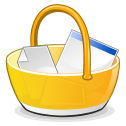
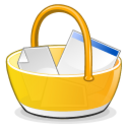
Add Mathom data migration and native profile support

diff --git a/src/main.cpp b/src/main.cpp
@@ -11,6 +11,11 @@
 #include <QCommandLineOption>
 #include <QCommandLineParser>
 #include <QDir>
+#include <QDirIterator>
+#include <QDateTime>
+#include <QFile>
+#include <QFileInfo>
+#include <QStandardPaths>
 #include <config.h>
 #include <kconfig.h> // TMP IN ALPHA 1
 
@@ -23,6 +28,44 @@
 #include "debugwindow.h"
 #endif
 #include "settings.h"
+
+static bool copyDirectoryRecursively(const QString &sourcePath, const QString &destinationPath)
+{
+    QDir sourceDir(sourcePath);
+    if (!sourceDir.exists()) {
+        return false;
+    }
+
+    if (!QDir().mkpath(destinationPath)) {
+        return false;
+    }
+
+    QDirIterator it(sourcePath,
+                    QDir::NoDotAndDotDot | QDir::AllEntries | QDir::Hidden | QDir::System,
+                    QDirIterator::Subdirectories);
+
+    while (it.hasNext()) {
+        const QString sourceItem = it.next();
+        const QFileInfo info = it.fileInfo();
+        const QString relativePath = sourceDir.relativeFilePath(sourceItem);
+        const QString destinationItem = QDir(destinationPath).filePath(relativePath);
+
+        if (info.isDir()) {
+            if (!QDir().mkpath(destinationItem)) {
+                return false;
+            }
+        } else if (info.isFile()) {
+            if (!QDir().mkpath(QFileInfo(destinationItem).path())) {
+                return false;
+            }
+            if (!QFile::copy(sourceItem, destinationItem)) {
+                return false;
+            }
+        }
+    }
+
+    return true;
+}
 
 int main(int argc, char *argv[])
 {
@@ -54,10 +97,84 @@ int main(int argc, char *argv[])
             Global::setCustomSavesFolder(customDataFolder);
         }
     }
+    // First-run migration from BasKet to Mathom.
+    // Keep the original BasKet profile untouched.
+    if (opts.value(QStringLiteral("data-folder")).isEmpty()) {
+        const QString genericData =
+            QStandardPaths::writableLocation(QStandardPaths::GenericDataLocation);
+        const QString configDir =
+            QStandardPaths::writableLocation(QStandardPaths::ConfigLocation);
+
+        const QString newData =
+            QDir(genericData).filePath(QStringLiteral("mathom"));
+        const QString newConfig =
+            QDir(configDir).filePath(QStringLiteral("mathomrc"));
+
+        struct LegacyProfile {
+            QString data;
+            QString config;
+            QDateTime modified;
+        };
+
+        QList<LegacyProfile> candidates;
+
+        // BasKet installed as Flatpak.
+        const QString flatpakRoot =
+            QDir::home().filePath(QStringLiteral(".var/app/org.kde.basket"));
+
+        const QString flatpakData =
+            QDir(flatpakRoot).filePath(QStringLiteral("data/basket"));
+        const QString flatpakConfig =
+            QDir(flatpakRoot).filePath(QStringLiteral("config/basketrc"));
+        const QString flatpakTree =
+            QDir(flatpakData).filePath(QStringLiteral("baskets/baskets.xml"));
+
+        if (QFileInfo::exists(flatpakTree)) {
+            candidates.append({
+                flatpakData,
+                flatpakConfig,
+                QFileInfo(flatpakTree).lastModified()
+            });
+        }
+
+        // BasKet installed natively.
+        const QString nativeData =
+            QDir(genericData).filePath(QStringLiteral("basket"));
+        const QString nativeConfig =
+            QDir(configDir).filePath(QStringLiteral("basketrc"));
+        const QString nativeTree =
+            QDir(nativeData).filePath(QStringLiteral("baskets/baskets.xml"));
+
+        if (QFileInfo::exists(nativeTree)) {
+            candidates.append({
+                nativeData,
+                nativeConfig,
+                QFileInfo(nativeTree).lastModified()
+            });
+        }
+
+        if (!QDir(newData).exists() && !candidates.isEmpty()) {
+            const LegacyProfile *source = &candidates.first();
+
+            for (const LegacyProfile &candidate : candidates) {
+                if (candidate.modified > source->modified) {
+                    source = &candidate;
+                }
+            }
+
+            if (!copyDirectoryRecursively(source->data, newData)) {
+                QDir(newData).removeRecursively();
+            } else if (QFileInfo::exists(source->config)
+                       && !QFileInfo::exists(newConfig)) {
+                QFile::copy(source->config, newConfig);
+            }
+        }
+    }
+
     app.tryLoadFile(opts.positionalArguments(), QDir::currentPath());
 
     // Initialize the config file
-    Global::basketConfig = KSharedConfig::openConfig(QStringLiteral("basketrc"));
+    Global::basketConfig = KSharedConfig::openConfig(QStringLiteral("mathomrc"));
 
     Backup::figureOutBinaryPath(argv0, app);
 

diff --git a/src/backgroundmanager.cpp b/src/backgroundmanager.cpp
@@ -4,11 +4,14 @@
  */
 
 #include "backgroundmanager.h"
+#include "global.h"
 
 #include <KConfig>
 #include <KConfigGroup>
 
+#include <QSet>
 #include <QDir>
+#include <QFileInfo>
 #include <QImage>
 #include <QPainter>
 #include <QPixmap>
@@ -54,24 +57,36 @@ OpaqueBackgroundEntry::~OpaqueBackgroundEntry()
 
 BackgroundManager::BackgroundManager()
 {
-    /// qCDebug(BASKET_LOG) << "BackgroundManager: Found the following background images in  ";
-    QStringList directories = QStandardPaths::standardLocations(QStandardPaths::GenericDataLocation);
-    // For each folder:
-    for (QStringList::Iterator it = directories.begin(); it != directories.end(); ++it) {
-        // For each file in those directories:
-        QDir dir(*it + QStringLiteral("/basket/backgrounds/"),
-                 /*nameFilder=*/QStringLiteral("*.png"),
-                 /*sortSpec=*/QDir::Name | QDir::IgnoreCase,
-                 /*filterSpec=*/QDir::Files | QDir::NoSymLinks);
-        ///     qCDebug(BASKET_LOG) << *it + "basket/backgrounds/  ";
-        QStringList files = dir.entryList();
-        for (QStringList::Iterator it2 = files.begin(); it2 != files.end(); ++it2) // TODO: If an image name is present in two folders?
-            addImage(*it + QStringLiteral("/basket/backgrounds/") + *it2);
-    }
+    const QStringList directories =
+        QStandardPaths::standardLocations(QStandardPaths::GenericDataLocation);
 
-    /// qCDebug(BASKET_LOG) << ":";
-    /// for (BackgroundsList::Iterator it = m_backgroundsList.begin(); it != m_backgroundsList.end(); ++it)
-    ///     qCDebug(BASKET_LOG) << "* " << (*it)->location << "  [ref: " << (*it)->name << "]";
+    QSet<QString> seenNames;
+
+    const auto loadBackgrounds = [this, &seenNames](const QString &folder) {
+        QDir dir(folder,
+                 QStringLiteral("*.png"),
+                 QDir::Name | QDir::IgnoreCase,
+                 QDir::Files | QDir::NoSymLinks);
+
+        const QStringList files = dir.entryList();
+
+        for (const QString &file : files) {
+            if (seenNames.contains(file)) {
+                continue;
+            }
+
+            seenNames.insert(file);
+            addImage(dir.filePath(file));
+        }
+    };
+
+    for (const QString &directory : directories) {
+        // Mathom backgrounds have priority.
+        loadBackgrounds(QDir(directory).filePath(QStringLiteral("mathom/backgrounds")));
+
+        // Keep compatibility with bundled and legacy BasKet backgrounds.
+        loadBackgrounds(QDir(directory).filePath(QStringLiteral("basket/backgrounds")));
+    }
 
     connect(&m_garbageTimer, &QTimer::timeout, this, [this]() {
         doGarbage();
@@ -260,7 +275,12 @@ QPixmap *BackgroundManager::preview(const QString &image)
         return entry->preview;
 
     // Then, try to load the preview from file:
-    QString previewPath = QStandardPaths::locate(QStandardPaths::GenericDataLocation, QStringLiteral("basket/backgrounds/previews/") + entry->name);
+    QString previewPath = Global::backgroundsFolder() + QStringLiteral("previews/") + entry->name;
+    if (!QFileInfo::exists(previewPath)) {
+        previewPath = QStandardPaths::locate(
+            QStandardPaths::GenericDataLocation,
+            QStringLiteral("basket/backgrounds/previews/") + entry->name);
+    }
     auto *previewPixmap = new QPixmap(previewPath);
     // Success:
     if (!previewPixmap->isNull()) {
@@ -313,7 +333,8 @@ QPixmap *BackgroundManager::preview(const QString &image)
     painter.end();
 
     // Saving it to file for later:
-    QString folder = QStandardPaths::writableLocation(QStandardPaths::GenericDataLocation) + QStringLiteral("/basket/backgrounds/previews/");
+    QString folder = Global::backgroundsFolder() + QStringLiteral("previews/");
+    QDir().mkpath(folder);
     result->save(folder + entry->name, "PNG");
 
     // Ouf! That's done:
@@ -337,7 +358,12 @@ QString BackgroundManager::previewPathForImageName(const QString &image)
     if (entry == nullptr) {
         return {};
     } else {
-        QString previewPath = QStandardPaths::locate(QStandardPaths::GenericDataLocation, QStringLiteral("basket/backgrounds/previews/") + entry->name);
+        QString previewPath = Global::backgroundsFolder() + QStringLiteral("previews/") + entry->name;
+    if (!QFileInfo::exists(previewPath)) {
+        previewPath = QStandardPaths::locate(
+            QStandardPaths::GenericDataLocation,
+            QStringLiteral("basket/backgrounds/previews/") + entry->name);
+    }
         QDir dir;
         if (!dir.exists(previewPath))
             return {};

diff --git a/src/global.cpp b/src/global.cpp
@@ -42,7 +42,7 @@ QString Global::savesFolder()
         } else if (!Settings::dataFolder().isEmpty()) { // Set by config option (in Basket -> Backup & Restore)
             folder = new QString(Settings::dataFolder().endsWith(QStringLiteral("/")) ? Settings::dataFolder() : Settings::dataFolder() + QLatin1Char('/'));
         } else { // The default path (should be that for most computers)
-            folder = new QString(QStandardPaths::writableLocation(QStandardPaths::GenericDataLocation) + QLatin1Char('/') + QStringLiteral("basket/"));
+            folder = new QString(QStandardPaths::writableLocation(QStandardPaths::GenericDataLocation) + QLatin1Char('/') + QStringLiteral("mathom/"));
             initializeGitIfNeeded(*folder);
         }
     }

diff --git a/src/archive.cpp b/src/archive.cpp
@@ -624,7 +624,7 @@ void Archive::importTagEmblems(const QString &extractionFolder)
 void Archive::importArchivedBackgroundImages(const QString &extractionFolder)
 {
     FormatImporter copier; // Only used to copy files synchronously
-    QString destFolder = QStandardPaths::writableLocation(QStandardPaths::GenericDataLocation) + QStringLiteral("/basket/backgrounds/");
+    QString destFolder = Global::backgroundsFolder();
     QDir().mkpath(destFolder); // does not exist at the first run when addWelcomeBaskets is called
 
     QDir dir(extractionFolder + QStringLiteral("backgrounds/"),

diff --git a/src/bnpview.cpp b/src/bnpview.cpp
@@ -1731,7 +1731,7 @@ QMenu *BNPView::popupMenu(const QString &menuName)
         }
     }
     if (menu == nullptr) {
-        QString basketDataPath = QStandardPaths::writableLocation(QStandardPaths::GenericDataLocation) + QStringLiteral("/basket/");
+        QString basketDataPath = Global::savesFolder();
 
         KMessageBox::error(this,
                            i18n("<p><b>The file mathomui.rc seems to not exist or is too old.<br>"
